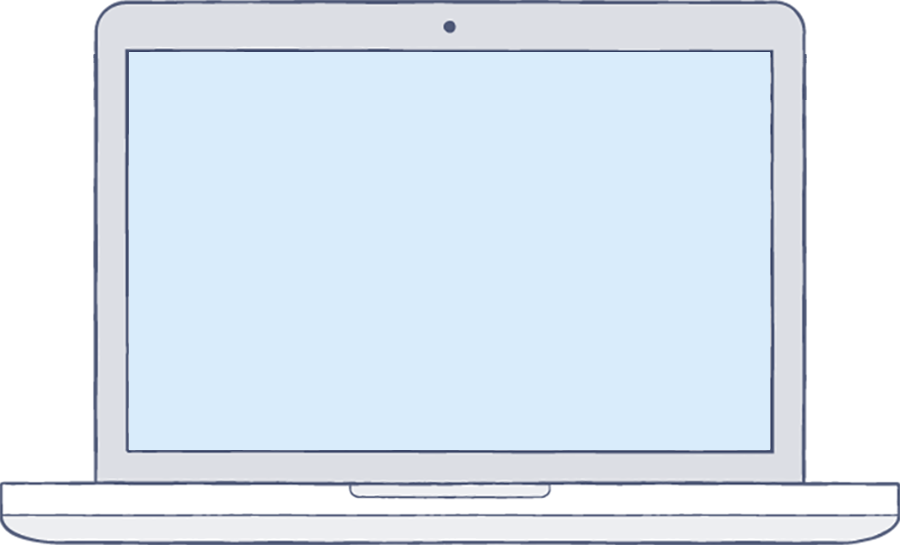
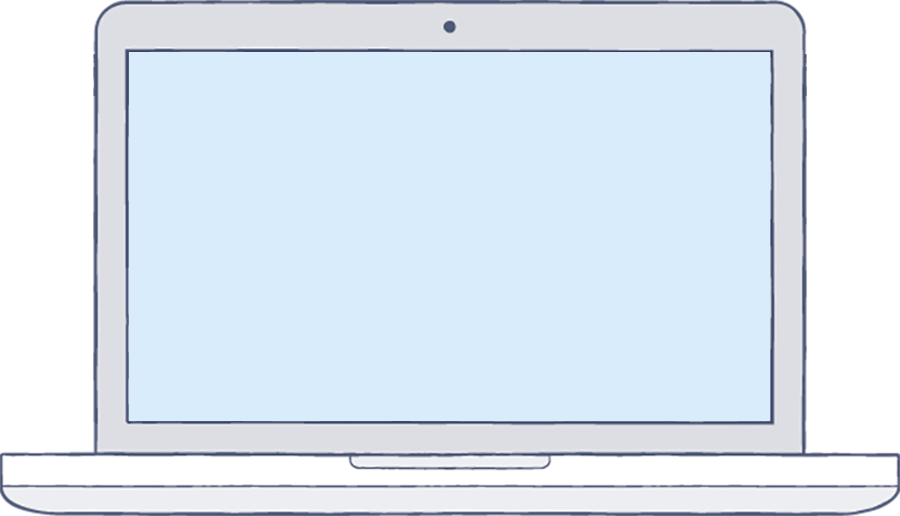
Error page integration

diff --git a/demo.html b/demo.html
@@ -18,15 +18,17 @@
 		<link rel="stylesheet" href="css/style.css" />
 	</head>
 	<body>
-		<div id="errorpage">
-			<img id="figure" src="img/404/bandaid.png" alt="Error: 404">
-			<div id="errorbox">
-				<h1 class="header">Error (404)</h1>
-				<p class="body">We can't find the page that you're looking for. Check out our <a href="">Help Center</a> and <a href="">Forums</a> for help, or head back to <a href="">home</a>.</p>
+		<div id="content">
+			<div id="errorpage">
+				<img id="figure" src="img/404/bandaid.png" alt="Error: 404">
+			</div>
+			<div id="container" class="hidden">
+				<div id="main_canvas"/>
 			</div>
 		</div>
-		<div id="container" class="hidden">
-			<div id="main_canvas"/>
+		<div id="errorbox">
+			<h1 class="header">Error (404)</h1>
+			<p class="body">We can't find the page that you're looking for. Check out our <a href="">Help Center</a> and <a href="">Forums</a> for help, or head back to <a href="">home</a>.</p>
 		</div>
 	</body>
 	<!--<div id="errorbox">

diff --git a/css/style.css b/css/style.css
@@ -16,8 +16,13 @@
 
 /* 404 Page */
 
+#content {
+	height: 20px;
+}
+
 #errorpage {
-	margin-top: 80px;
+	margin-top: 180px;
+	margin-bottom: 105px;
 }
 
 #figure {
@@ -26,14 +31,14 @@
 }
 
 #errorbox {
-	margin: 0 auto;
+	margin: auto;
 	max-width: 600px;
 	line-height: 1.6em;
 }
 
 #container {
 	margin: 0 auto;
-	margin-top: 50px;
+	margin-top: 25px;
 	height: 545px;
 	background-image: url("../img/laptop.png");
 	background-repeat: no-repeat;
@@ -55,7 +60,7 @@
 #main_canvas {
 	position: relative;
 	width: 640;
-	height: 398;
+	height: 368;
 	margin-left: auto;
 	margin-right: auto;
 	/*background-color: #d9ecfb;*/
@@ -65,7 +70,7 @@ canvas {
 	position: relative;
 	margin-left: auto;
 	margin-right: auto;
-	top: 53px;
+	top: 70px;
 	opacity: 0;
 }
 

diff --git a/js/catch/gameobjects/balloonman.js b/js/catch/gameobjects/balloonman.js
@@ -18,7 +18,7 @@ class BalloonManSprite extends GameSprite {
 		this.animations.add('idle', ['man_00.png']);
 		this.animations.add('inflate', ['man_01.png']);
 		this.animations.add('fall', ['man_fall_00.png']);
-		this.animations.add('dead', ['man_down_00.png']);
+		this.animations.add('dead', ['man_fall_00.png', 'man_down_00.png'], 5);
 		this.animations.add('cheer', ['man_cheer_00.png'], 12, false, false);
 		this.animations.add('standup', ['man_down_00.png', 'man_standup_00.png', 
 			'man_standup_01.png', 'man_standup_02.png', 'man_00.png'], 12, false, false);

diff --git a/js/main.js b/js/main.js
@@ -22,6 +22,8 @@ function init() {
 
     //fadeErrorText();
 
+    $("#container").hide();
+
     hideErrorText();
 }
 
@@ -34,9 +36,11 @@ function hideErrorText() {
 }
 
 function showLaptop() {
-    $("#container").animate({
-        opacity: 100
-    }, 200, "swing", startGame);
+    $("#container").show(0, function() {
+        $("#container").animate({
+            opacity: 100
+        }, 200, "swing", startGame);
+    });
 }
 
 function startGame() {

diff --git a/js/game.js b/js/game.js
@@ -8,7 +8,7 @@ class GameEngineBase {
 	}
 
 	init() {
-		this.game = new Phaser.Game(640, 398, Phaser.Auto, this.root, 
+		this.game = new Phaser.Game(640, 368, Phaser.Auto, this.root, 
 			{ preload: this.preload, create: this.create, update: this.update });
 		//this.game.transparent = true;
 	}
